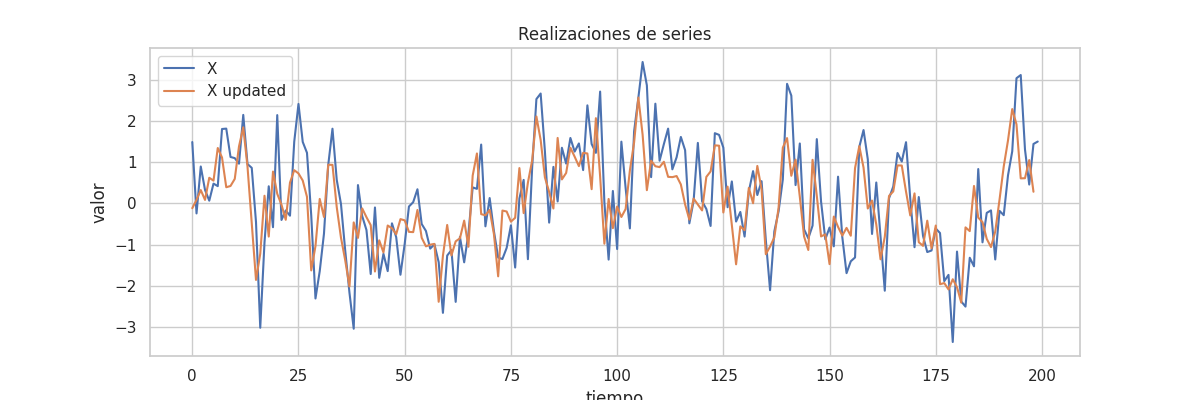
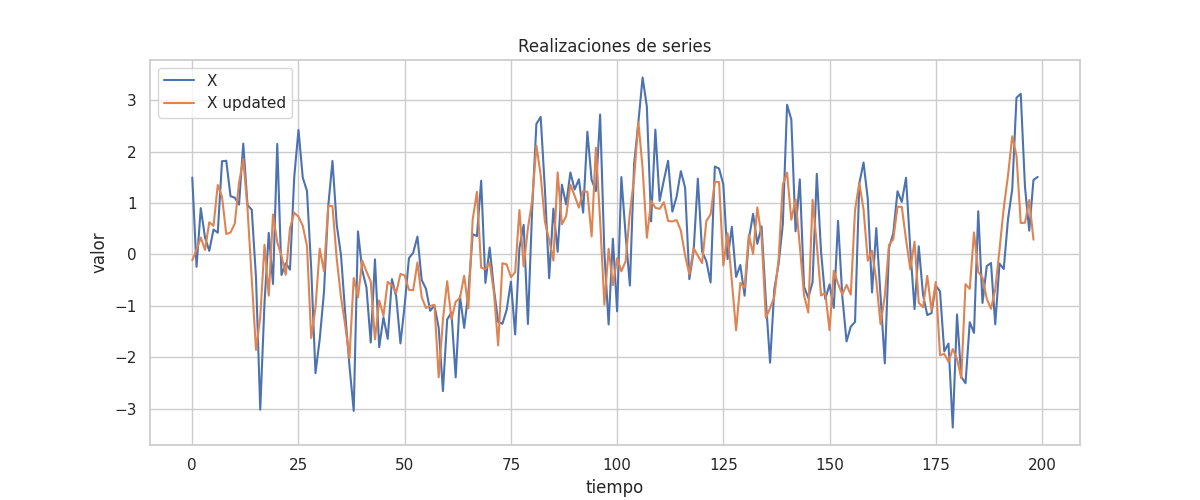
update plots FK

diff --git a/unidad_1/tarea_1/tarea_1_kalman.py b/unidad_1/tarea_1/tarea_1_kalman.py
@@ -6,7 +6,7 @@ from filtros.filtro_kalman import KalmanFilter1D
 np.random.seed(0)
 save_plots = False  # si guardar o no las figuras
 img_dir = "unidad_1/tarea_1/informe/img"  # directorio en caso de guardar las figuras
-display_plots = True  # si se muestran o no las figuras (pop-up)
+display_plots = True  # si se muestran o no las figuras (pop-up), no funciona al mismo tiempo que save_plots
 
 # Simulación de las series
 
@@ -35,16 +35,18 @@ for i in range(n_samples):
     Y[i] = C*X[i] + D*W[i]
 
 if save_plots:
-    plot_series(X,'X',save='serie_x.png',folder=img_dir,display=display_plots)
-    plot_series(Y,'Y','tab:orange',save='serie_y.png',folder=img_dir,display=display_plots)
+    plot_series([X,Y],['X','Y'],save='series_x_y.png',folder=img_dir,display=display_plots)
+    # plot_series(X,'X',save='serie_x.png',folder=img_dir,display=display_plots)
+    # plot_series(Y,'Y','tab:orange',save='serie_y.png',folder=img_dir,display=display_plots)
 else:
-    plot_series(X,'X',display=display_plots)
-    plot_series(Y,'Y','tab:orange',display=display_plots)
+    plot_series([X,Y],['X','Y'],display=display_plots)
+    # plot_series(X,'X',display=display_plots)
+    # plot_series(Y,'Y','tab:orange',display=display_plots)
 
 # Filtro de Kalman
 
 # definiendo el filtro
-filter = KalmanFilter1D(Y[0],B*D,A,B,C,D)
+filter = KalmanFilter1D(Y[0],0.8,A,B,C,D)
 
 # aplicación manual de las primeras iteraciones
 filter.predict()

diff --git a/unidad_1/tarea_1/informe/main.tex b/unidad_1/tarea_1/informe/main.tex
@@ -109,8 +109,9 @@ B                         & \multicolumn{1}{r|}{1.0860}         \\ \hline
 \end{tabular}
 \end{table}
 
-\insertimage[\label{img:serie_x}]{img/serie_x}{scale=0.5}{Serie $X$}
-\insertimage[\label{img:serie_y}]{img/serie_y}{scale=0.5}{Serie $Y$}
+% \insertimage[\label{img:serie_x}]{img/serie_x}{scale=0.5}{Serie $X$}
+% \insertimage[\label{img:serie_y}]{img/serie_y}{scale=0.5}{Serie $Y$}
+\insertimage[\label{img:series_x_y}]{img/series_x_y}{scale=0.5}{Serie original $X$ y mediciones $Y$.}
 
 \lipsum[2]
 

diff --git a/unidad_1/tarea_1/plot.py b/unidad_1/tarea_1/plot.py
@@ -27,7 +27,7 @@ def plot_series(series,y_tag,colour='tab:blue',save=False,folder=None,display=Tr
     
     """
     sns.set_theme(style="whitegrid")
-    _, ax = plt.subplots(figsize=(12,4))
+    _, ax = plt.subplots(figsize=(12,5))
     if isinstance(y_tag,list):
         assert(len(series)==len(y_tag))
         for i in range(len(y_tag)):
